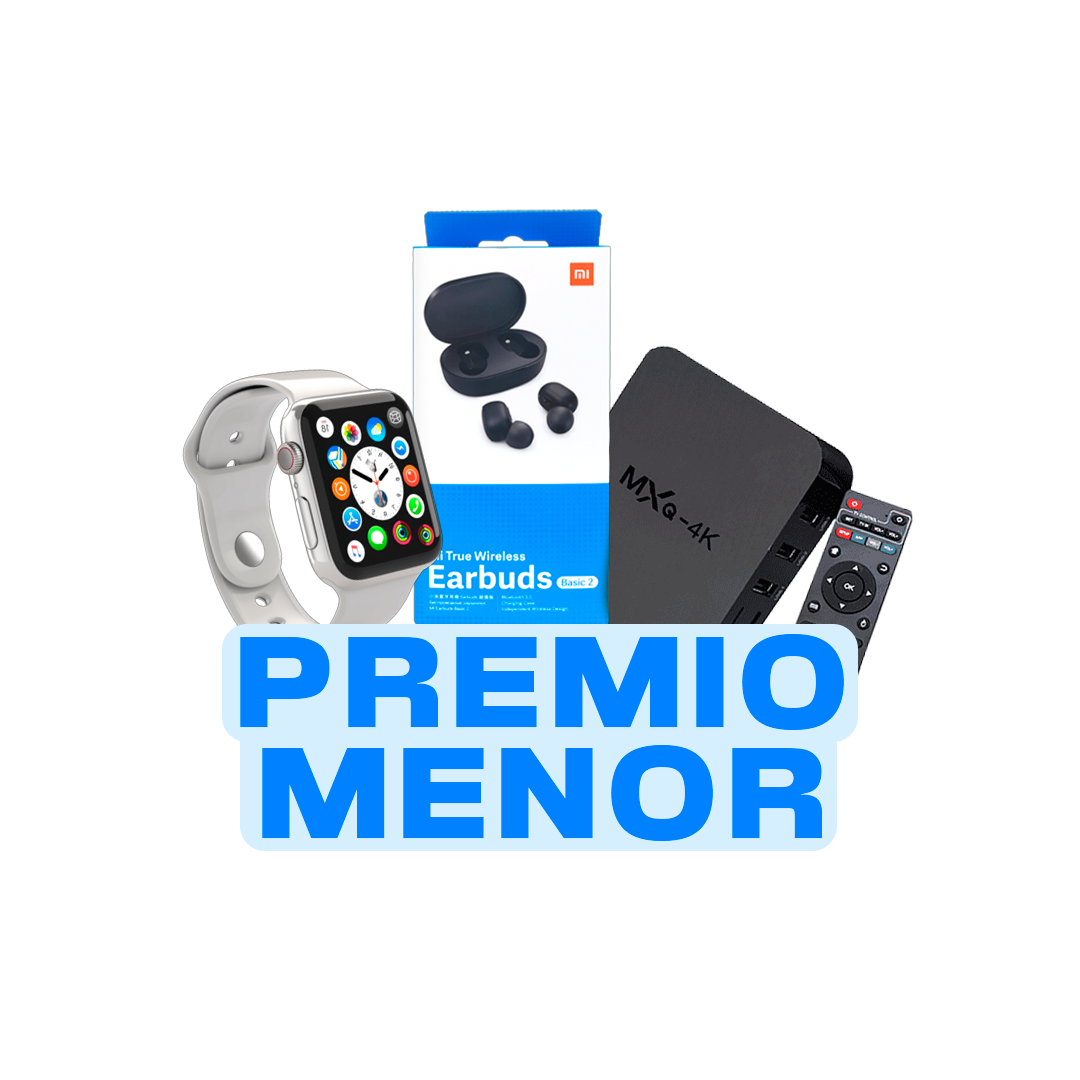
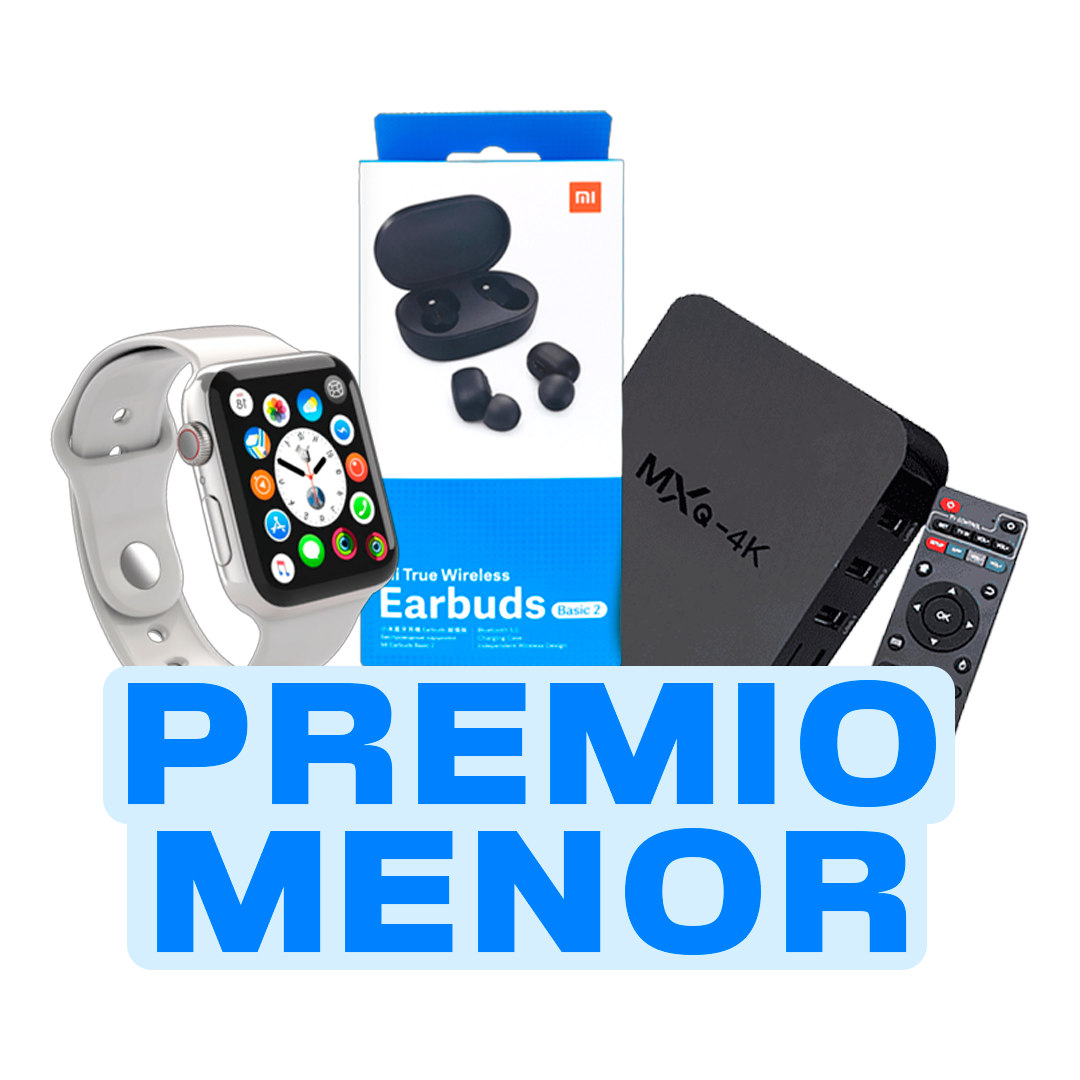
Ruleta Tec 6.0 imagenes y % act

diff --git a/src/Wheel.jsx b/src/Wheel.jsx
@@ -18,26 +18,26 @@ const Wheel = ({ onPremioGanado }) => {
 
   // Ruta de las imágenes que se mostrarán en cada segmento
   const imageSources = [
-    "/img/iphone.png", // Imagen para el segmento 1
-    "/img/descuento.png", // Imagen para el segmento 2
-    "/img/calavera.png", // Imagen para el segmento 3
-    "/img/objetomisterioso.png", // Imagen para el segmento 4
-    "/img/airpods.png", // Imagen para el segmento 5
-    "/img/gabi.png", // Imagen para el segmento 6
+    "/img/PremioMenor.png", // Imagen para el segmento 1
+    "/img/5descuento.png", // Imagen para el segmento 2
+    "/img/PlayoIphone.png", // Imagen para el segmento 3
+    "/img/10usd.png", // Imagen para el segmento 4
+    "/img/PremioMayor.png", // Imagen para el segmento 5
+    "/img/SeguiParticipando.png", // Imagen para el segmento 6
   ];
 
   const rotationValues = [
-    { minDegree: 0, maxDegree: 30, value: "Un 10% de descuento para tu próxima compra", image: "/img/descuento.png" }, //2
+    { minDegree: 0, maxDegree: 30, value: "Un 5% de descuento para tu compra", image: "/img/5descuento.png" }, //2
     { minDegree: 31, maxDegree: 90, value: "Premio Menor", image: "/img/PremioMenor.png" }, //1
-    { minDegree: 91, maxDegree: 150, value: "Un esclavo sexual", image: "/img/gabi.png" }, //6
-    { minDegree: 151, maxDegree: 210, value: "Unos Airpods", image: "/img/airpods.png" }, //5
-    { minDegree: 211, maxDegree: 270, value: "Un Producto misterioso", image: "/img/objetomisterioso.png" }, //4
-    { minDegree: 271, maxDegree: 330, value: "Sera la proxima...", image: "/img/calavera.png" }, //3
-    { minDegree: 331, maxDegree: 360, value: "Un 10% de descuento para tu próxima compra", image: "/img/descuento.png" }, //2
+    { minDegree: 91, maxDegree: 150, value: "Sera la proxima...", image: "/img/SeguiParticipando.png" }, //6
+    { minDegree: 151, maxDegree: 210, value: "Premio Mayor", image: "/img/PremioMayor.png" }, //5
+    { minDegree: 211, maxDegree: 270, value: "$10 usd de descuento para tu compra", image: "/img/10usd.png" }, //4
+    { minDegree: 271, maxDegree: 330, value: "PlayStation 5 o IPhone", image: "/img/PlayoIphone.png" }, //3
+    { minDegree: 331, maxDegree: 360, value: "5% de descuento para tu compra", image: "/img/5descuento.png" }, //2
   ];
 
   // Definir probabilidades en porcentaje para cada segmento
-  const probabilities = [1, 1, 1, 1, 1, 95]; // Porcentajes asignados a cada segmento 2,1,6,5,4,3
+  const probabilities = [40, 11, 5, 4, 40, 0]; // Porcentajes asignados a cada segmento 2,1,6,5,4,3
 
   const data = [16, 16, 16, 16, 16, 16];
   const pieColors = ["#8b35bc", "#b163da", "#8b35bc", "#b163da", "#8b35bc", "#b163da"];
@@ -77,7 +77,7 @@ const Wheel = ({ onPremioGanado }) => {
           loadedImages.forEach((img, i) => {
             const meta = chart.getDatasetMeta(0).data[i];
             const { x, y } = meta.tooltipPosition(); // Obtiene la posición del centro del segmento
-            const size = 50; // Tamaño de la imagen
+            const size = 70; // Tamaño de la imagen
             const halfSize = size / 2;
 
             ctx.save();
